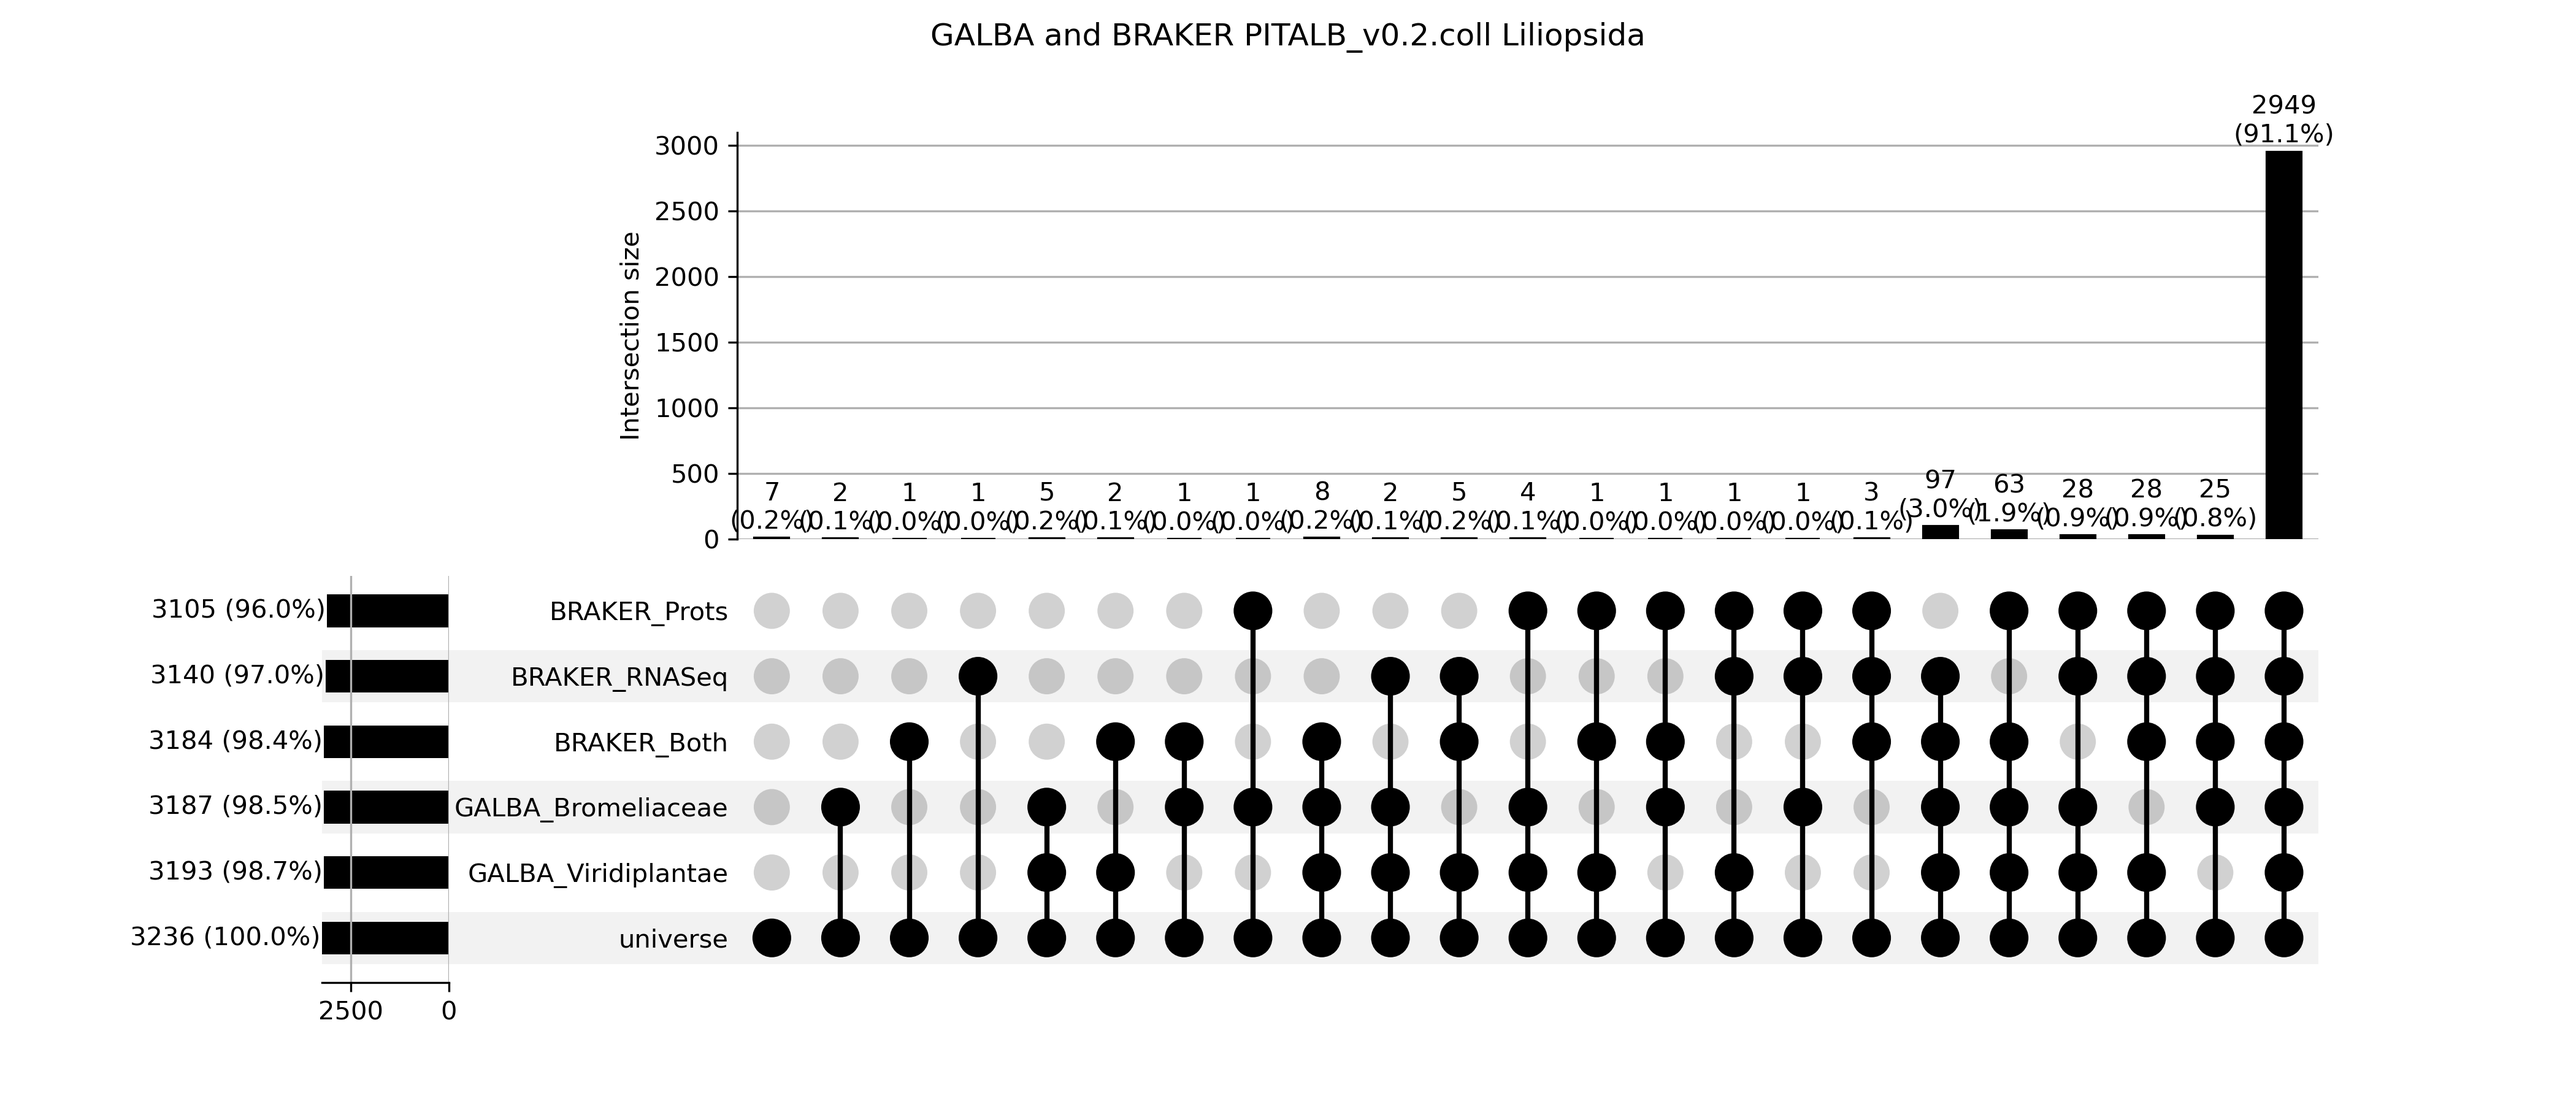
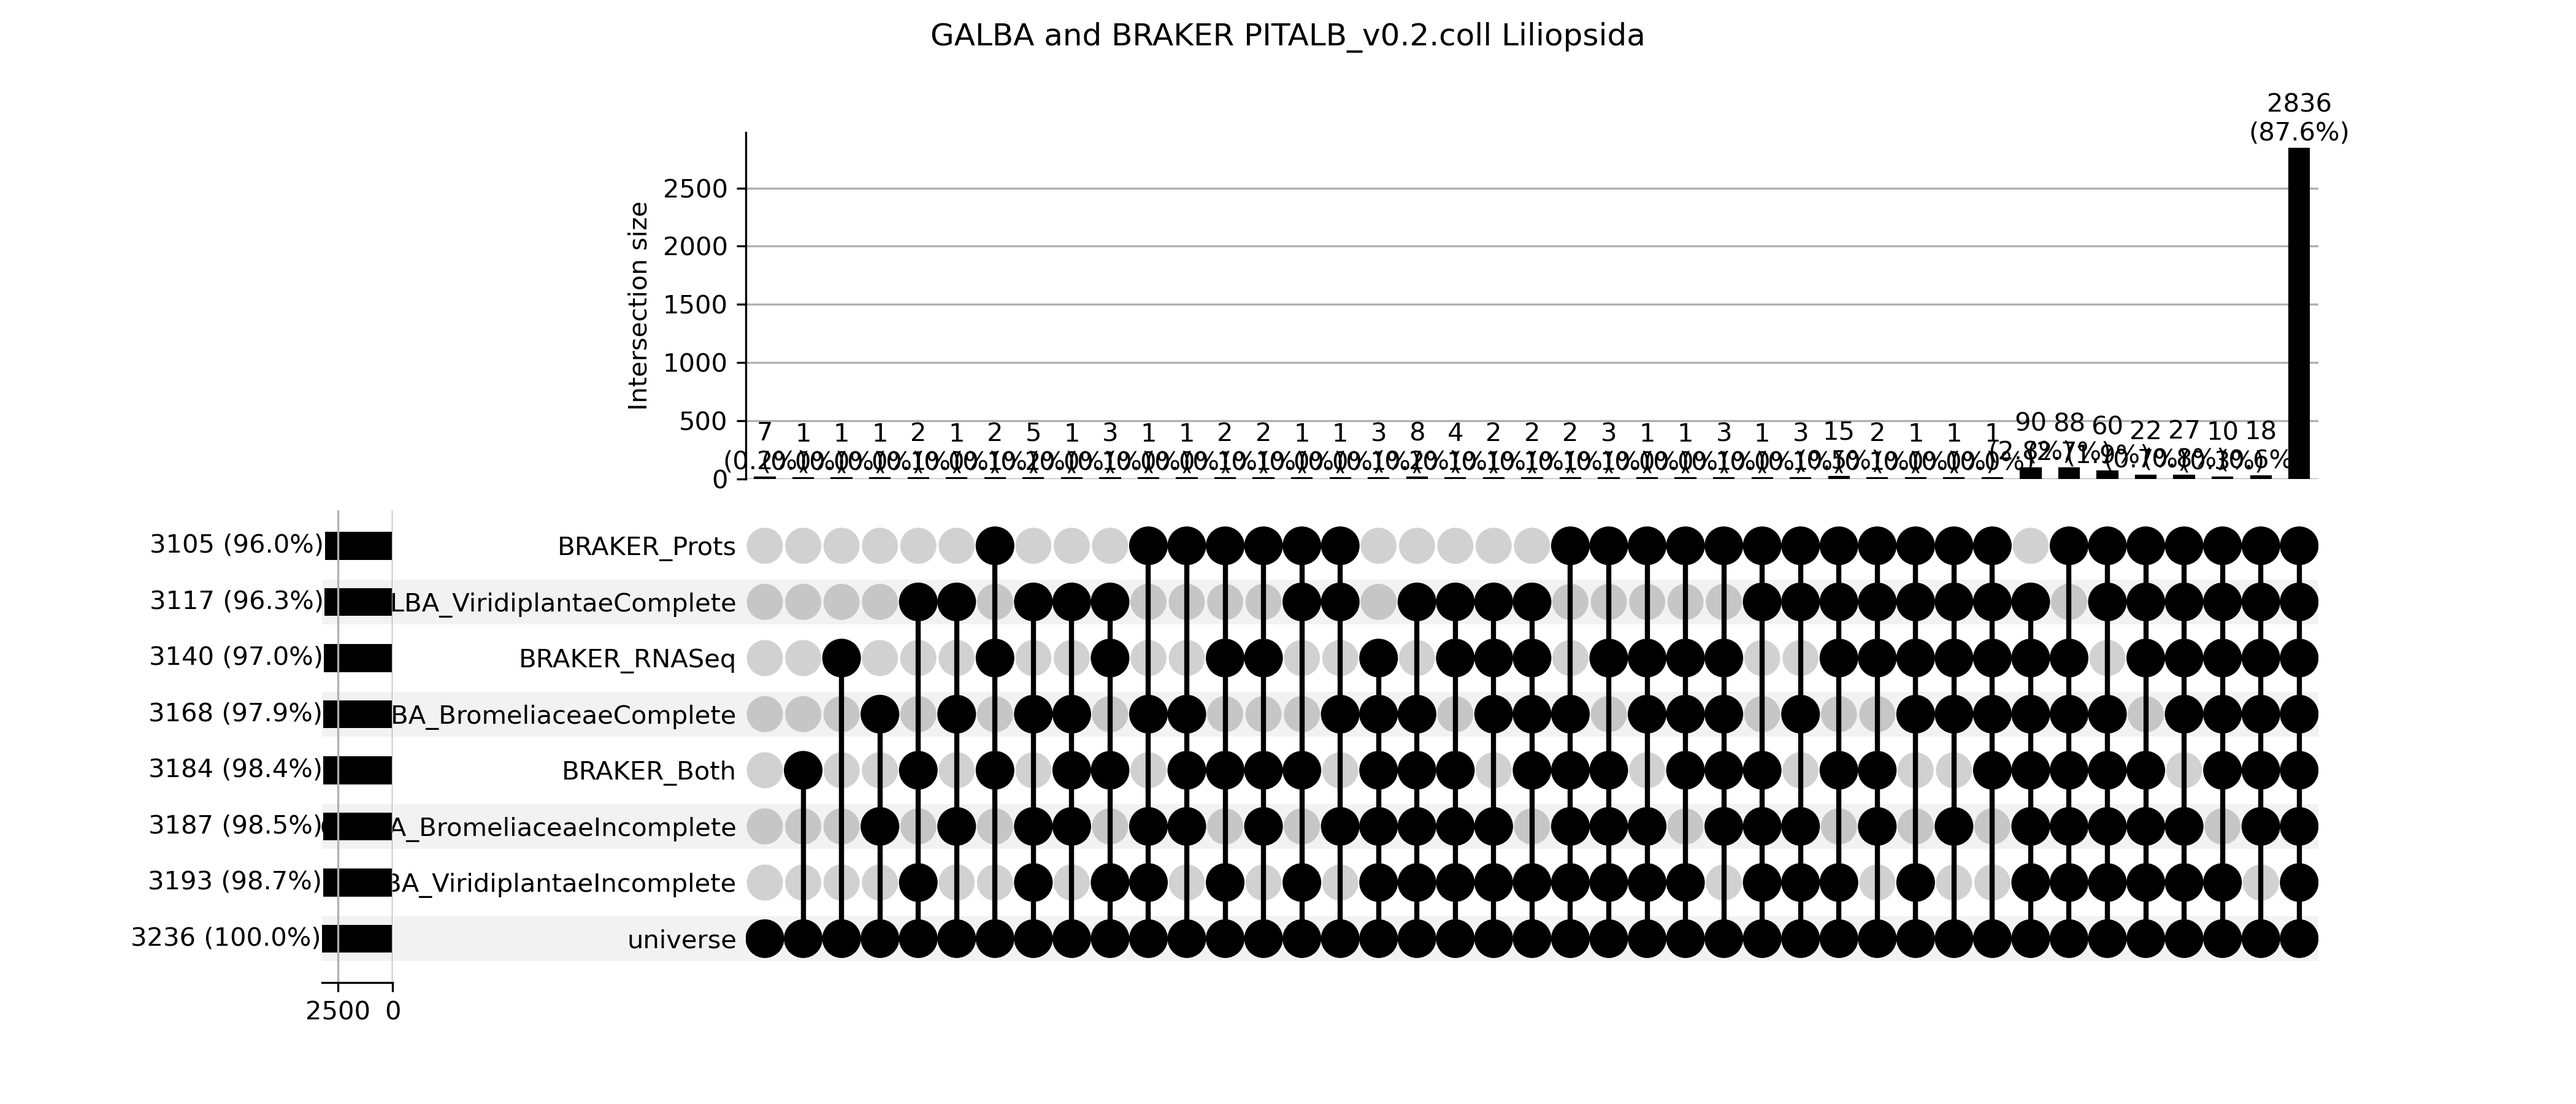
Updating galba results, previous galba run did not produced the galba.gtf file with filtered gene models

Changed region(s): [[0.0624, 0.0622, 0.9045, 0.8711], [0.1248, 0.9022, 0.156, 0.9333]]

diff --git a/upsetBUSCO.py b/upsetBUSCO.py
@@ -34,6 +34,15 @@ df14 = pd.read_table("GALBA/galba.february2024.hap1.Bromeliaceae_NCBI__augustus.
 df15 = pd.read_table("GALBA/galba.february2024.hap1.ViridiplantaeOrthoDB__augustus.hints.BUSCO_embryophyta_odb10__run_embryophyta_odb10__full_table.found.gz",header=None)
 df16 = pd.read_table("GALBA/galba.february2024.hap1.ViridiplantaeOrthoDB__augustus.hints.BUSCO_liliopsida_odb10__run_liliopsida_odb10__full_table.found.gz",header=None)
 
+df23 = pd.read_table("GALBA/galba.march2024.coll.Bromeliaceae_NCBI__galba.BUSCO_embryophyta_odb10__run_embryophyta_odb10__full_table.found.gz",header=None)
+df24 = pd.read_table("GALBA/galba.march2024.coll.Bromeliaceae_NCBI__galba.BUSCO_liliopsida_odb10__run_liliopsida_odb10__full_table.found.gz",header=None)
+df25 = pd.read_table("GALBA/galba.march2024.coll.ViridiplantaeOrthoDB__galba.BUSCO_embryophyta_odb10__run_embryophyta_odb10__full_table.found.gz",header=None)
+df26 = pd.read_table("GALBA/galba.march2024.coll.ViridiplantaeOrthoDB__galba.BUSCO_liliopsida_odb10__run_liliopsida_odb10__full_table.found.gz",header=None)
+df27 = pd.read_table("GALBA/galba.march2024.hap1.Bromeliaceae_NCBI__galba.BUSCO_embryophyta_odb10__run_embryophyta_odb10__full_table.found.gz",header=None)
+df28 = pd.read_table("GALBA/galba.march2024.hap1.Bromeliaceae_NCBI__galba.BUSCO_liliopsida_odb10__run_liliopsida_odb10__full_table.found.gz",header=None)
+df29 = pd.read_table("GALBA/galba.march2024.hap1.ViridiplantaeOrthoDB__galba.BUSCO_embryophyta_odb10__run_embryophyta_odb10__full_table.found.gz",header=None)
+df30 = pd.read_table("GALBA/galba.march2024.hap1.ViridiplantaeOrthoDB__galba.BUSCO_liliopsida_odb10__run_liliopsida_odb10__full_table.found.gz",header=None)
+
 dataBRAKEREmbryophytaColl = {
  'ProtsViridiplantae' : df1.values.flatten().tolist(),
  'RNASeq' : df2.values.flatten().tolist(),
@@ -88,8 +97,10 @@ dataGALBABRAKEREmbryophytaColl = {
  'BRAKER_Prots' : df1.values.flatten().tolist(),
  'BRAKER_RNASeq' : df2.values.flatten().tolist(),
  'BRAKER_Both' : df3.values.flatten().tolist(),
- 'GALBA_Viridiplantae' : df11.values.flatten().tolist(),
- 'GALBA_Bromeliaceae' : df9.values.flatten().tolist(),
+ 'GALBA_ViridiplantaeIncomplete' : df11.values.flatten().tolist(),
+ 'GALBA_BromeliaceaeIncomplete' : df9.values.flatten().tolist(),
+ 'GALBA_ViridiplantaeComplete' : df25.values.flatten().tolist(),
+ 'GALBA_BromeliaceaeComplete' : df23.values.flatten().tolist(),
  'universe' : df7.values.flatten().tolist()
 }
 
@@ -97,8 +108,10 @@ dataGALBABRAKEREmbryophytaHap1 = {
  'BRAKER_Prots' : df4.values.flatten().tolist(),
  'BRAKER_RNASeq' : df5.values.flatten().tolist(),
  'BRAKER_Both' : df6.values.flatten().tolist(),
- 'GALBA_Viridiplantae' : df15.values.flatten().tolist(),
- 'GALBA_Bromeliaceae' : df13.values.flatten().tolist(),
+ 'GALBA_ViridiplantaeIncomplete' : df15.values.flatten().tolist(),
+ 'GALBA_BromeliaceaeIncomplete' : df13.values.flatten().tolist(),
+ 'GALBA_ViridiplantaeComplete' : df29.values.flatten().tolist(),
+ 'GALBA_BromeliaceaeComplete' : df27.values.flatten().tolist(),
  'universe' :  df7.values.flatten().tolist()
 }
 
@@ -106,8 +119,10 @@ dataGALBABRAKERLiliopsidaColl = {
  'BRAKER_Prots' : df17.values.flatten().tolist(),
  'BRAKER_RNASeq' : df18.values.flatten().tolist(),
  'BRAKER_Both' : df19.values.flatten().tolist(),
- 'GALBA_Viridiplantae' : df12.values.flatten().tolist(),
- 'GALBA_Bromeliaceae' : df10.values.flatten().tolist(),
+ 'GALBA_ViridiplantaeIncomplete' : df12.values.flatten().tolist(),
+ 'GALBA_BromeliaceaeIncomplete' : df10.values.flatten().tolist(),
+ 'GALBA_ViridiplantaeComplete' : df26.values.flatten().tolist(),
+ 'GALBA_BromeliaceaeComplete' : df24.values.flatten().tolist(),
  'universe' :  df8.values.flatten().tolist()
 }
 
@@ -115,8 +130,10 @@ dataGALBABRAKERLiliopsidaHap1 = {
  'BRAKER_Prots' : df20.values.flatten().tolist(),
  'BRAKER_RNASeq' : df21.values.flatten().tolist(),
  'BRAKER_Both' : df22.values.flatten().tolist(),
- 'GALBA_Viridiplantae' : df16.values.flatten().tolist(),
- 'GALBA_Bromeliaceae' : df14.values.flatten().tolist(),
+ 'GALBA_ViridiplantaeIncomplete' : df16.values.flatten().tolist(),
+ 'GALBA_BromeliaceaeIncomplete' : df14.values.flatten().tolist(),
+ 'GALBA_ViridiplantaeComplete' : df30.values.flatten().tolist(),
+ 'GALBA_BromeliaceaeComplete' : df28.values.flatten().tolist(),
  'universe' :  df8.values.flatten().tolist()
 }
 
